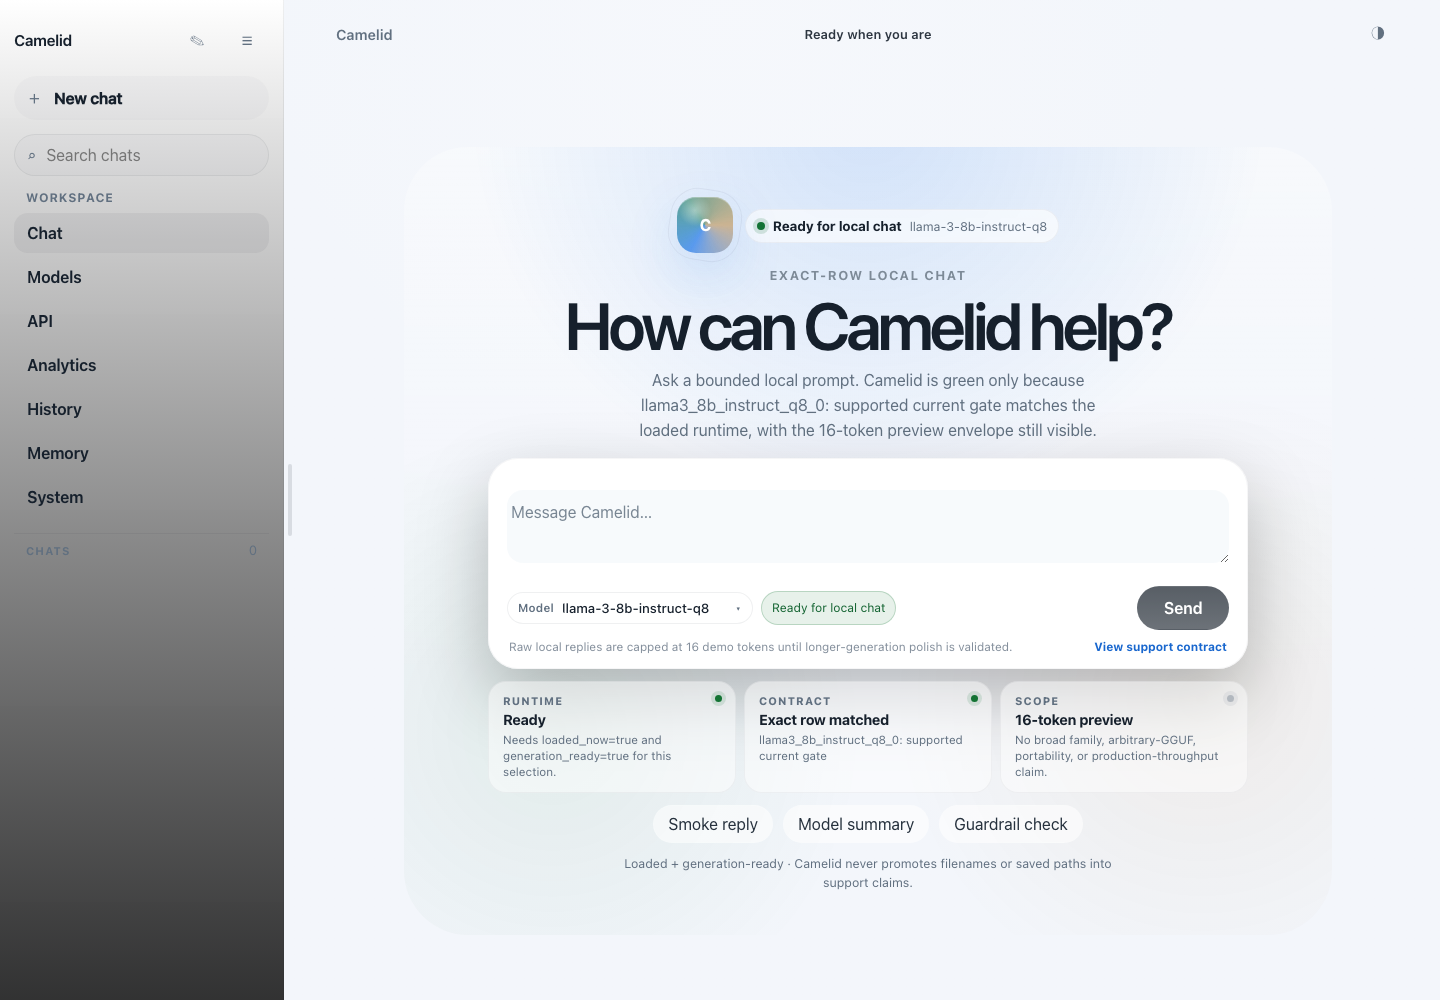
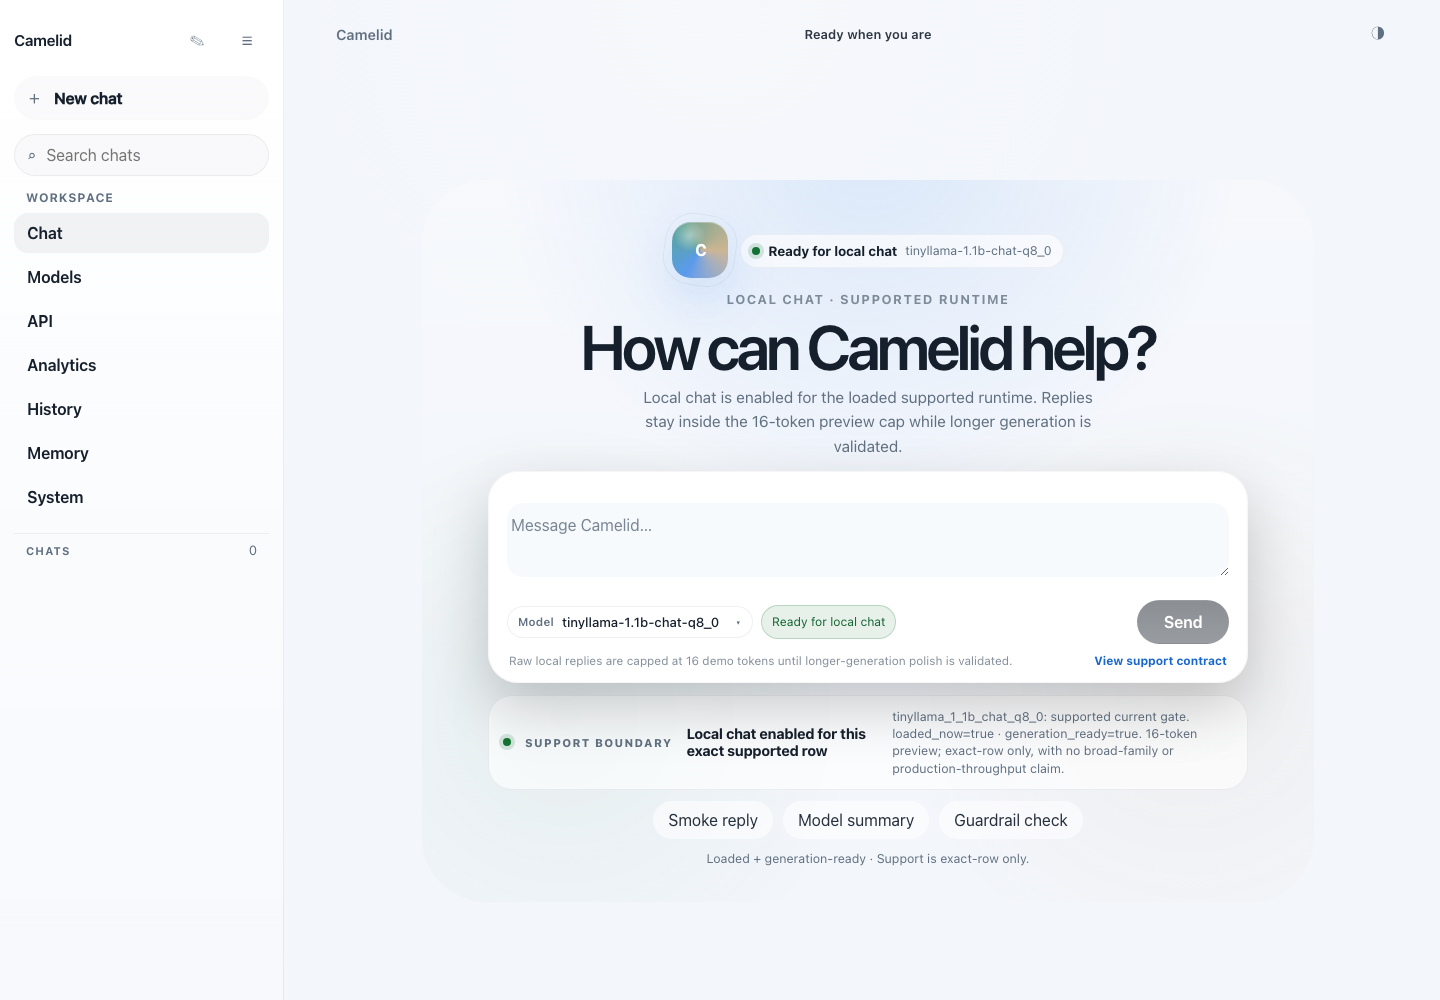
Polish Gemini-style chat landing

diff --git a/frontend/src/styles/components.css b/frontend/src/styles/components.css
@@ -349,7 +349,7 @@
 }
 
 .primary-button:disabled {
-  opacity: 0.72;
+  opacity: 0.5;
   cursor: default;
   box-shadow: none;
 }
@@ -1455,9 +1455,9 @@
 }
 
 .chat-empty-stage-product {
-  width: min(100%, 780px);
-  gap: 14px;
-  padding: 6px 0 4px;
+  width: min(100%, 760px);
+  gap: 13px;
+  padding: 4px 0 2px;
 }
 
 .chat-empty-stage-clean::before {
@@ -1474,13 +1474,13 @@
 }
 
 .chat-empty-stage-product::before {
-  inset: -44px -74px -38px;
+  inset: -38px -66px -32px;
   border-radius: 64px;
   background:
-    radial-gradient(circle at 50% -6%, color-mix(in srgb, var(--color-info) 18%, transparent), transparent 42%),
-    radial-gradient(circle at 16% 74%, color-mix(in srgb, var(--color-ready) 8%, transparent), transparent 32%),
-    radial-gradient(circle at 86% 70%, color-mix(in srgb, var(--color-warning) 7%, transparent), transparent 32%),
-    linear-gradient(180deg, color-mix(in srgb, var(--color-bg-elevated) 32%, transparent), transparent 66%);
+    radial-gradient(circle at 50% -6%, color-mix(in srgb, var(--color-info) 13%, transparent), transparent 42%),
+    radial-gradient(circle at 16% 74%, color-mix(in srgb, var(--color-ready) 6%, transparent), transparent 32%),
+    radial-gradient(circle at 86% 70%, color-mix(in srgb, var(--color-warning) 5%, transparent), transparent 32%),
+    linear-gradient(180deg, color-mix(in srgb, var(--color-bg-elevated) 24%, transparent), transparent 66%);
 }
 
 .chat-empty-stage-product.is-blocked::before {
@@ -1582,7 +1582,7 @@
 }
 
 .chat-empty-hero-clean {
-  gap: 9px;
+  gap: 8px;
 }
 
 .chat-empty-product-lockup {
@@ -1757,8 +1757,8 @@
 }
 
 .chat-empty-hero-clean h2 {
-  max-width: 16ch;
-  font-size: clamp(2.8rem, 4.6vw, 4.35rem);
+  max-width: 15ch;
+  font-size: clamp(2.65rem, 4.35vw, 4.15rem);
   line-height: 1;
   letter-spacing: -0.06em;
 }
@@ -1768,10 +1768,10 @@
 }
 
 .chat-empty-hero-clean .hero-summary {
-  max-width: 49ch;
+  max-width: 48ch;
   color: var(--color-text-muted);
-  font-size: 1rem;
-  line-height: 1.58;
+  font-size: 0.98rem;
+  line-height: 1.54;
 }
 
 .chat-empty-assurance-row {
@@ -1844,6 +1844,68 @@
   color: var(--color-text-muted);
   font-size: 0.73rem;
   line-height: 1.38;
+}
+
+.chat-empty-contract-bar {
+  width: min(100%, 760px);
+  display: grid;
+  grid-template-columns: auto auto minmax(0, 0.72fr) minmax(280px, 1.28fr);
+  align-items: center;
+  gap: 10px 14px;
+  padding: 12px 14px;
+  border: 1px solid color-mix(in srgb, var(--color-border-soft) 68%, transparent);
+  border-radius: 24px;
+  background: color-mix(in srgb, var(--color-bg-elevated) 62%, transparent);
+  box-shadow: inset 0 1px 0 rgba(255, 255, 255, 0.06);
+  text-align: left;
+}
+
+.chat-empty-contract-bar span {
+  color: var(--color-text-muted);
+  font-size: 0.7rem;
+  font-weight: 800;
+  letter-spacing: 0.12em;
+  text-transform: uppercase;
+  white-space: nowrap;
+}
+
+.chat-empty-contract-bar strong {
+  min-width: 0;
+  color: var(--color-text);
+  font-size: 0.9rem;
+  font-weight: 720;
+  letter-spacing: -0.02em;
+}
+
+.chat-empty-contract-bar small {
+  min-width: 0;
+  color: var(--color-text-muted);
+  font-size: 0.78rem;
+  line-height: 1.38;
+}
+
+.chat-empty-contract-bar::before {
+  content: '';
+  width: 8px;
+  height: 8px;
+  border-radius: 999px;
+  background: var(--color-text-muted);
+  box-shadow: 0 0 0 4px color-mix(in srgb, var(--color-text-muted) 12%, transparent);
+}
+
+.chat-empty-contract-bar.is-ready::before {
+  background: var(--color-ready);
+  box-shadow: 0 0 0 4px color-mix(in srgb, var(--color-ready) 16%, transparent);
+}
+
+.chat-empty-contract-bar.is-blocked::before {
+  background: var(--color-error);
+  box-shadow: 0 0 0 4px color-mix(in srgb, var(--color-error) 15%, transparent);
+}
+
+.chat-empty-contract-bar.is-waiting::before {
+  background: var(--color-warning);
+  box-shadow: 0 0 0 4px color-mix(in srgb, var(--color-warning) 15%, transparent);
 }
 
 .chat-empty-contract-note {
@@ -2029,9 +2091,9 @@
   border-color: color-mix(in srgb, var(--color-border-strong) 24%, transparent);
   border-radius: 30px;
   background:
-    linear-gradient(180deg, color-mix(in srgb, var(--color-surface) 98%, rgba(255, 255, 255, 0.035)), color-mix(in srgb, var(--color-surface-strong) 88%, rgba(255, 255, 255, 0.02))),
+    linear-gradient(180deg, color-mix(in srgb, var(--color-surface) 99%, rgba(255, 255, 255, 0.035)), color-mix(in srgb, var(--color-surface-strong) 90%, rgba(255, 255, 255, 0.02))),
     radial-gradient(circle at top, rgba(255, 255, 255, 0.065), transparent 58%);
-  box-shadow: 0 28px 70px rgba(0, 0, 0, 0.25), inset 0 1px 0 rgba(255, 255, 255, 0.055);
+  box-shadow: 0 24px 58px rgba(0, 0, 0, 0.2), inset 0 1px 0 rgba(255, 255, 255, 0.055);
   backdrop-filter: blur(20px);
   padding: 15px 18px 13px;
   transition: border-color 140ms ease, box-shadow 140ms ease, transform 140ms ease;
@@ -4450,7 +4512,8 @@
   .library-facts-row,
   .models-toolbar-top,
   .models-status-grid,
-  .chat-empty-assurance-row {
+  .chat-empty-assurance-row,
+  .chat-empty-contract-bar {
     grid-template-columns: 1fr;
   }
 
@@ -4706,6 +4769,16 @@
     min-width: 0;
     flex: 1 1 auto;
     padding: 5px 10px;
+  }
+
+  .chat-empty-contract-bar {
+    gap: 6px;
+    padding: 11px 12px;
+    border-radius: 20px;
+  }
+
+  .chat-empty-contract-bar small {
+    font-size: 0.74rem;
   }
 
   .composer-gemini-actions-stage .composer-send-button {

diff --git a/frontend/src/views/ChatWorkspace.jsx b/frontend/src/views/ChatWorkspace.jsx
@@ -128,40 +128,20 @@ export default function ChatWorkspace({
   const guardedFeatureSummary = summarizeGuardedFeatures(apiFeatures)
   const selectedModelName = selectedModel?.name || selectedModelId || 'No model selected'
   const emptyHeroEyebrow = selectedModelRunnable
-    ? 'Exact-row local chat'
+    ? 'Local chat · supported runtime'
     : supportBlocked
-      ? 'Contract gate closed'
+      ? 'Support contract gate closed'
       : 'Camelid local chat'
   const emptyHeroTitle = selectedModelRunnable
     ? 'How can Camelid help?'
     : supportBlocked
-      ? 'Support row required.'
+      ? 'Support row required'
       : 'Bring a local model online.'
   const emptyHeroSummary = selectedModelRunnable
-    ? `Ask a bounded local prompt. Camelid is green only because ${selectedCompatibilityLabel} matches the loaded runtime, with the ${CHAT_DEMO_TOKEN_CAP}-token preview envelope still visible.`
+    ? `Local chat is enabled for the loaded supported runtime. Replies stay inside the ${CHAT_DEMO_TOKEN_CAP}-token preview cap while longer generation is validated.`
     : supportBlocked
       ? 'The runtime can see this GGUF, but chat stays locked until /api/capabilities names the exact supported model and quant row.'
       : 'Choose a GGUF and load it. Chat unlocks only after runtime health and the exact support contract agree.'
-  const readinessFacts = [
-    {
-      label: 'Runtime',
-      value: selectedModel ? (selectedRuntimeReady ? 'Ready' : 'Waiting') : 'No model',
-      copy: 'Needs loaded_now=true and generation_ready=true for this selection.',
-      tone: selectedRuntimeReady ? 'ready' : 'waiting',
-    },
-    {
-      label: 'Contract',
-      value: selectedModelRunnable ? 'Exact row matched' : supportBlocked ? 'Exact row missing' : capabilityGate,
-      copy: selectedModel ? selectedCompatibilityLabel : 'Select a model to see exact compatibility.',
-      tone: selectedModelRunnable ? 'ready' : supportBlocked ? 'blocked' : 'waiting',
-    },
-    {
-      label: 'Scope',
-      value: `${CHAT_DEMO_TOKEN_CAP}-token preview`,
-      copy: 'No broad family, arbitrary-GGUF, portability, or production-throughput claim.',
-      tone: 'neutral',
-    },
-  ]
   const readinessState = selectedModelRunnable ? 'ready' : supportBlocked ? 'blocked' : selectedModel ? 'waiting' : 'idle'
   const readinessLabel = selectedModelRunnable
     ? 'Ready for local chat'
@@ -170,6 +150,19 @@ export default function ChatWorkspace({
       : selectedModel
         ? 'Waiting for runtime readiness'
         : 'Choose a model to begin'
+  const runtimeGateCopy = selectedModel
+    ? `loaded_now=${selectedRuntimeReady ? 'true' : 'false'} · generation_ready=${runtime?.generation_ready && runtime?.active_model_id === selectedModelId ? 'true' : 'false'}`
+    : 'No model selected'
+  const supportBoundaryTitle = selectedModelRunnable
+    ? 'Local chat enabled for this exact supported row'
+    : supportBlocked
+      ? 'Runtime is ready, but exact support is not'
+      : selectedModel
+        ? 'Waiting for runtime and support contract agreement'
+        : 'No support is inferred until a model is selected'
+  const supportBoundaryCopy = selectedModel
+    ? `${selectedCompatibilityLabel}. ${runtimeGateCopy}. ${CHAT_DEMO_TOKEN_CAP}-token preview; exact-row only, with no broad-family or production-throughput claim.`
+    : `Choose a saved GGUF first. ${CHAT_DEMO_TOKEN_CAP}-token preview cap; filenames and paths do not create support claims.`
   const starterPrompts = [
     {
       label: 'Smoke reply',
@@ -302,14 +295,10 @@ export default function ChatWorkspace({
                 </div>
               </div>
 
-              <div className="chat-empty-assurance-row" aria-label="Local chat readiness summary">
-                {readinessFacts.map((item) => (
-                  <div key={item.label} className={`chat-empty-assurance-card ${item.tone ? `is-${item.tone}` : ''}`}>
-                    <span>{item.label}</span>
-                    <strong>{item.value}</strong>
-                    <small>{item.copy}</small>
-                  </div>
-                ))}
+              <div className={`chat-empty-contract-bar is-${readinessState}`} aria-label="Local chat support boundary">
+                <span>Support boundary</span>
+                <strong>{supportBoundaryTitle}</strong>
+                <small>{supportBoundaryCopy}</small>
               </div>
 
               <div className="chat-starter-chips chat-starter-chips-centered chat-starter-chips-stage" aria-label="Starter prompts">
@@ -327,7 +316,7 @@ export default function ChatWorkspace({
                 ))}
               </div>
 
-              <p className="chat-empty-status-note">{selectedModelMeta} · Camelid never promotes filenames or saved paths into support claims.</p>
+              <p className="chat-empty-status-note">{selectedModelMeta} · Support is exact-row only.</p>
             </div>
           </div>
         ) : (

diff --git a/frontend/src/styles/layout.css b/frontend/src/styles/layout.css
@@ -28,7 +28,7 @@
   top: 0;
   height: 100vh;
   overflow: hidden;
-  background: linear-gradient(180deg, color-mix(in srgb, var(--color-bg-elevated) 98%, transparent), color-mix(in srgb, #171717 88%, var(--color-surface-subtle) 12%));
+  background: linear-gradient(180deg, color-mix(in srgb, var(--color-bg-elevated) 98%, transparent), color-mix(in srgb, var(--color-surface-subtle) 92%, var(--color-bg-elevated) 8%));
   border-right: 1px solid color-mix(in srgb, var(--color-border-soft) 72%, transparent);
   backdrop-filter: blur(20px);
   padding: 18px 14px 14px;
@@ -54,7 +54,7 @@
   z-index: 8;
   align-items: center;
   justify-content: space-between;
-  background: rgba(27, 27, 27, 0.96);
+  background: color-mix(in srgb, var(--color-bg-elevated) 96%, transparent);
 }
 
 .sidebar-brand-row {
@@ -98,7 +98,11 @@
   height: 72px;
   border-radius: 999px;
   background: color-mix(in srgb, var(--color-border-strong) 72%, transparent);
-  transition: background 140ms ease, transform 140ms ease;
+  transition: background 140ms ease, opacity 140ms ease, transform 140ms ease;
+}
+
+.sidebar-resizer-line {
+  opacity: 0;
 }
 
 .sidebar-unhide-button-label {
@@ -116,6 +120,7 @@
 .sidebar-unhide-button:hover .sidebar-unhide-button-line,
 .sidebar-unhide-button:focus-visible .sidebar-unhide-button-line {
   background: color-mix(in srgb, var(--color-info) 65%, var(--color-border-strong) 35%);
+  opacity: 1;
   transform: scaleX(1.12);
 }
 